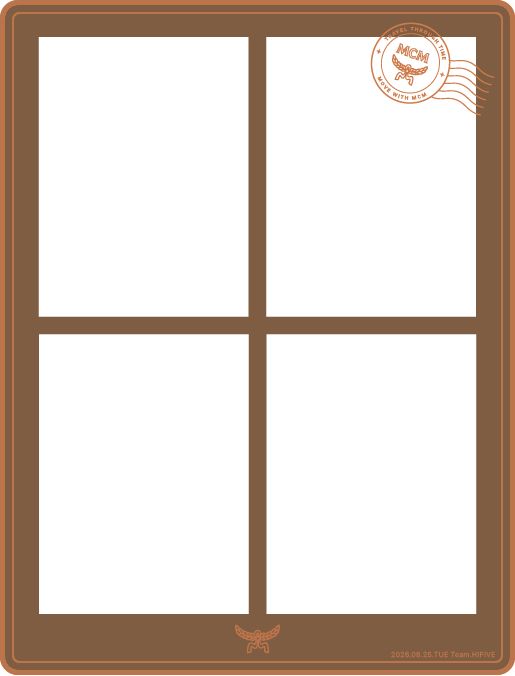
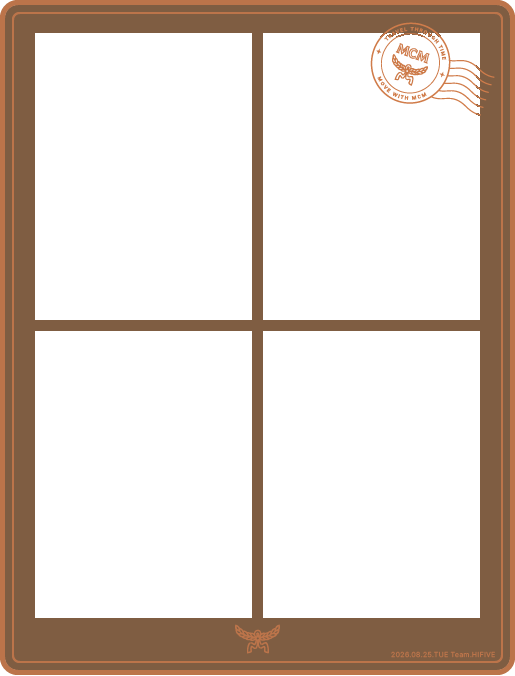
fix: 네컷 프레임 매트 폭 축소 (사진-프레임 간 여백 4px씩 줄임)

Changed region(s): [[0.0621, 0.0311, 0.932, 0.932], [0.7767, 0.0311, 0.8078, 0.0621]]

diff --git a/backend/mcmProject/shop/constants.py b/backend/mcmProject/shop/constants.py
@@ -53,15 +53,18 @@ def next_era(era: str):
 # 디자인팀에서 받은 프레임 PNG v2 적용 (media/frames/time_passport_frame.png,
 # 515x676, 사진 자리 4곳이 실제로 alpha=0으로 투명 처리되어 있는 것 확인함— 스탬프/로고/
 # 하단 날짜 텍스트가 추가된 리뉴얼 버전이라 슬롯 좌표도 이전 프레임과 살짝 달라졌음).
-# 아래 슬롯 좌표는 이미지에서 투명 영역의 경계를 직접 스캔해서 뽑아낸 정확한 값 —
 # 순서는 1976 -> 2005 -> 2016 -> 2026 (좌상단 -> 우상단 -> 좌하단 -> 우하단).
+#
+# 2026-08-21: 사진과 매트(여백) 사이 틈이 너무 넓다는 피드백으로, 프레임 PNG 자체를
+# 코드로 후처리해서 매트 색상(RGB 127,93,66)만 골라 각 슬롯 바깥으로 4px씩 투명 영역을
+# 넓혔음(스탬프/로고/날짜는 색이 달라 안 건드려짐). 슬롯 좌표도 그만큼 확장해서 반영.
 PASSPORT_FRAME_PATH = settings.MEDIA_ROOT / 'frames' / 'time_passport_frame.png'
 
 PASSPORT_FRAME_SLOTS = [
-    (39, 37, 209, 279),
-    (267, 37, 209, 279),
-    (39, 335, 209, 279),
-    (267, 335, 209, 279),
+    (35, 33, 217, 287),
+    (263, 33, 217, 287),
+    (35, 331, 217, 287),
+    (263, 331, 217, 287),
 ]
 
 # 프레임이 없을 때(PASSPORT_FRAME_PATH가 None) 쓰는 기본 캔버스 크기/배경색.
